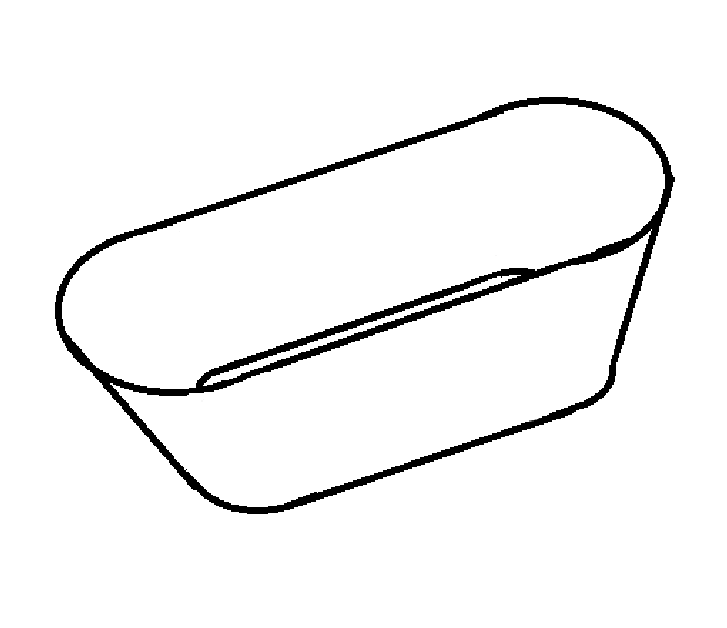
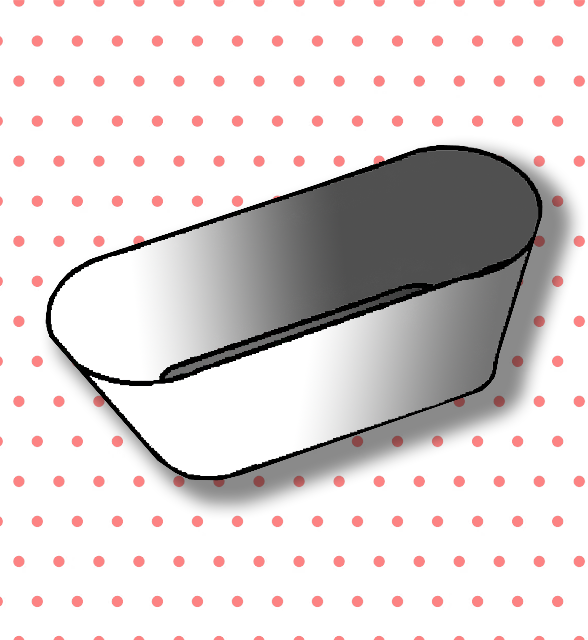
image

diff --git a/calculator.html b/calculator.html
@@ -27,19 +27,19 @@
   <div id="select-zone">
   <table>
     <tr>
-      <td><img onclick="select_container(1);" class="container-img" src="/img/container1.jpg"></td>
-      <td><img onclick="select_container(2);" class="container-img" src="/img/container2.jpg"></td>
+      <td><img onclick="select_container(1);" class="container-img" src="/img/container1.png"></td>
+      <td><img onclick="select_container(2);" class="container-img" src="/img/container2.png"></td>
     </tr>
     <tr>
-      <td><img onclick="select_container(3);" class="container-img" src="/img/container3.jpg"></td>
+      <td><img onclick="select_container(3);" class="container-img" src="/img/container3.png"></td>
       <td><img onclick="select_container(4);" class="container-img" src="/img/container4.png"></td>
     </tr>
     <tr>
-      <td><img onclick="select_container(5);" class="container-img" src="/img/container5.jpg"></td>
-      <td><img onclick="select_container(6);" class="container-img" src="/img/container6.jpg"></td>
+      <td><img onclick="select_container(5);" class="container-img" src="/img/container5.png"></td>
+      <td><img onclick="select_container(6);" class="container-img" src="/img/container6.png"></td>
     </tr>
     <tr>
-      <td><img onclick="select_container(7);" class="container-img" src="/img/container7.jpg"></td>
+      <td><img onclick="select_container(7);" class="container-img" src="/img/container7.png"></td>
       <td><img onclick="select_container(8);" class="container-img" src="/img/container8.png"></td>
     </tr>
     

diff --git a/DHF.html b/DHF.html
@@ -17,7 +17,7 @@
     </table>
   </h1>
   <p class="info">
-    <table style='margin-bottom: 20px;'>
+    <table class="info" style='margin-bottom: 20px;'>
     <tr><td>
       โรคไข้เลือดออกเดงกี เป็นโรคติดเชื้อไวรัสเดงกีที่มียุงลายเป็นแมลงนำโรค 
       โรคนี้ได้กลายเป็นปัญหาสาธารณสุขในหลายประเทศทั่วโลก 
@@ -28,7 +28,7 @@
       ซึ่งร้อยละ 70 ของผู้ป่วยทั้งหมดมาจากประเทศในภูมิภาคเอเชีย
     </td></tr>
   </table>
-  <table style='margin-bottom: 20px;'>
+  <table class="info" style='margin-bottom: 20px;'>
     <tr><td class="index">
       วิธีการติดต่อ
     </td></tr>

diff --git a/style.css b/style.css
@@ -13,7 +13,7 @@ body{
     margin-bottom:0px;
 }
 .container-img{
-    border: 1px solid black;
+    border: 3px solid rgb(255, 133, 133);;
     border-radius: 10px;
     transition: all .3s;
 }
@@ -157,12 +157,12 @@ h1{
         height: 150px;
     }
     body{
-        font-size: 16px;
+        font-size: 18px;
         text-align: center;
     }
     .info {
         width: 330px;
-        font-size: 16px;
+        font-size: 18px;
     }
     h1{
         font-size: 30px;
@@ -171,7 +171,7 @@ h1{
         font-size: 20px;
     }
     .thebutton{
-        font-size: 16px;
+        font-size: 18px;
     }
 
     #knowledge{
@@ -199,7 +199,7 @@ h1{
         font-size: 20px;
     }
     .knowledge-button{
-        font-size: 16px;
+        font-size: 18px;
         
     }
     .index{

diff --git a/script.js b/script.js
@@ -423,7 +423,7 @@ function calculate(number){
             alert_zone.innerHTML = "กรุณากรอกข้อมูลให้ครบถ้วน";
         } else{
             alert_zone.style.color = 'green';
-            result = (Math.PI*height/6)*(3*Math.pow(diameter/2,3)+Math.pow(height,2))*0.016;
+            result = (Math.PI*height/6)*(3*Math.pow(diameter/2,2)+Math.pow(height,2))*0.016;
             
             var string = "ปริมาตรน้ำสูงสุดในภาชนะเท่ากับ "+result.toFixed(1)+" ลิตร"+"<br>";
             result = result/percent
